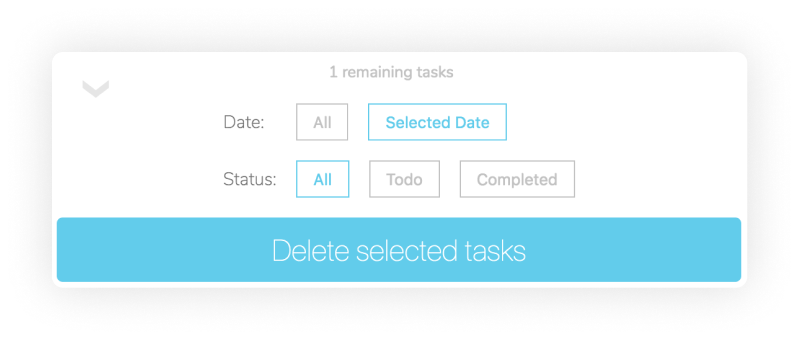
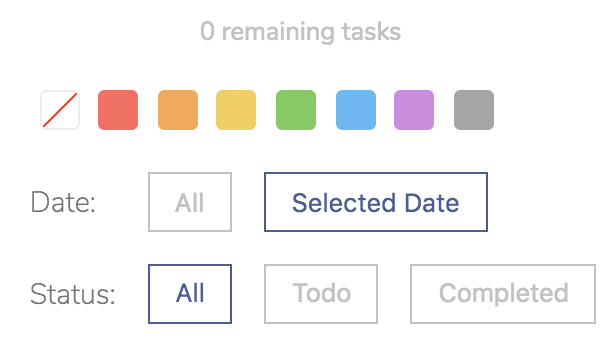
refactor: updating filters & images

diff --git a/src/components/BottomSection.js b/src/components/BottomSection.js
@@ -24,11 +24,14 @@ const S = {
   `,
   Img: styled.img`
     width: 100%;
+    box-shadow: 0px 0px 70px rgba(0, 0, 0, 0.04);
+    border-radius: 0.4rem;
     @media ${device.tablet} {
       width: 400px;
+      margin-right: 4rem;
     }
     @media ${device.desktop} {
-      width: 600px;
+      width: 400px;
     }
   `,
   Title: styled.h1`
@@ -52,8 +55,8 @@ export default () => (
           <S.Content>
             <S.Title>Filter tasks</S.Title>
             <S.Description>
-              Choose which task to display by filtering them either by date or
-              status (todo/completed)
+              Choose which task to display by filtering them either by tags,
+              date or status (todo/completed).
             </S.Description>
           </S.Content>
         </S.Wrapper>

diff --git a/src/components/MiddleSection.js b/src/components/MiddleSection.js
@@ -77,6 +77,7 @@ const S = {
   `,
   Img: styled.img`
     z-index: 2;
+    border-radius: 0.2rem;
     box-shadow: 0px 0px 52px rgba(0, 0, 0, 0.14);
     margin: 40px;
     height: 350px;
